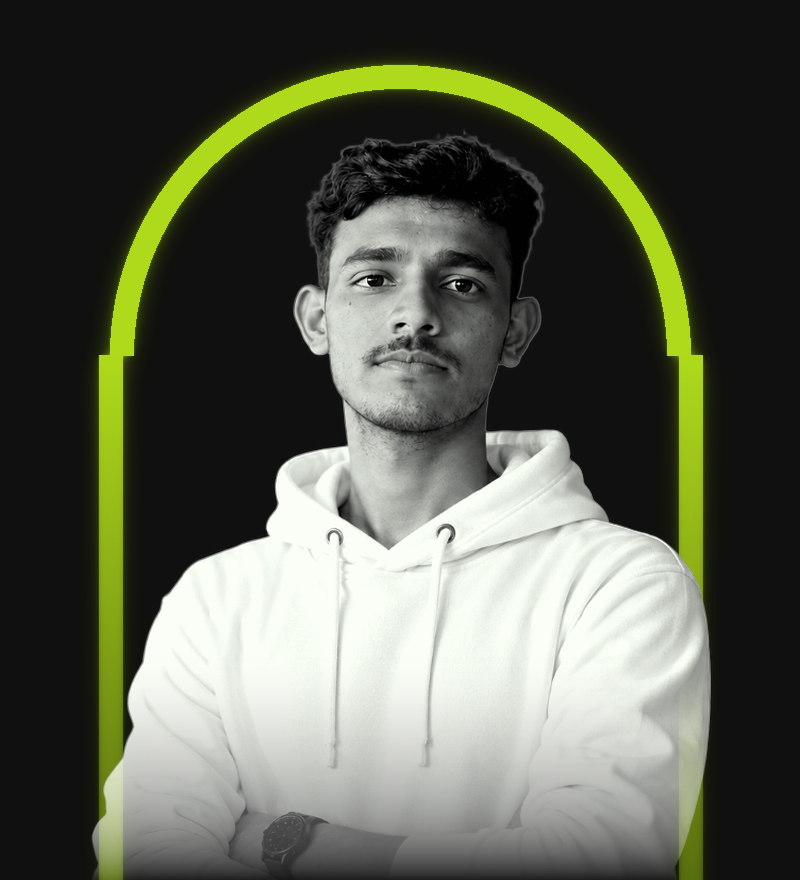
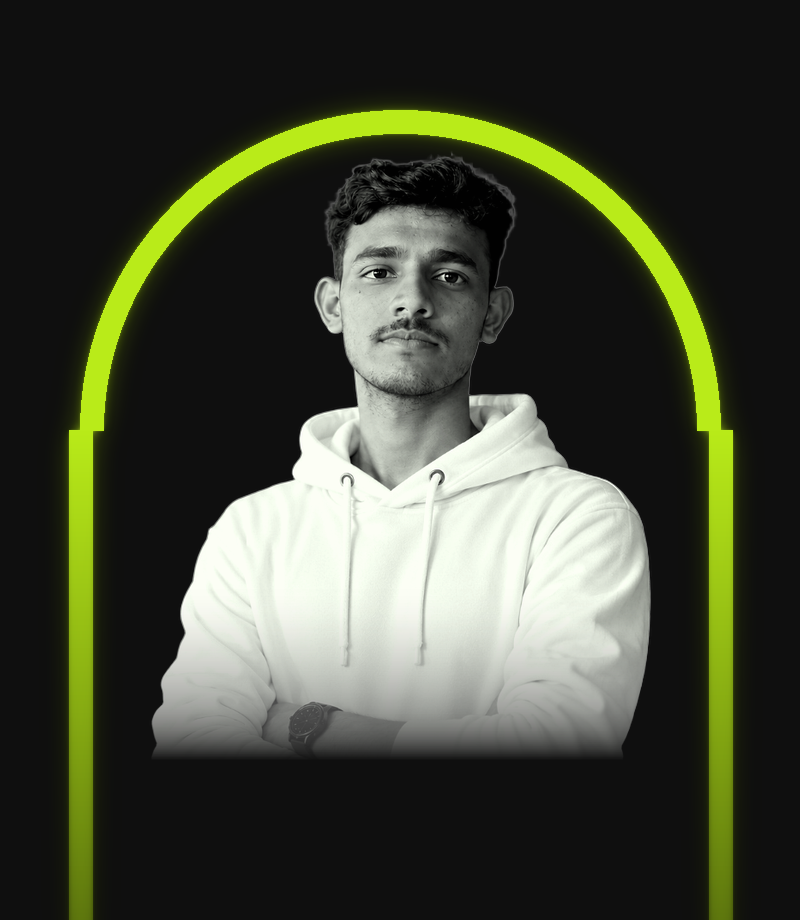
fix: adjust yellow arch line to fit around subject with clear margins

diff --git a/src/components/sections/Hero.jsx b/src/components/sections/Hero.jsx
@@ -150,11 +150,11 @@ export default function Hero() {
               <div className="absolute -bottom-10 -left-10 w-48 h-48 bg-[#c9f31d]/10 blur-[70px] rounded-full pointer-events-none" />
 
               {/* Exact Reference Arch Portrait */}
-              <div className="relative w-full aspect-[800/880] rounded-2xl bg-[#101010] border border-white/[0.08] flex items-center justify-center overflow-hidden shadow-inner">
+              <div className="relative w-full aspect-[800/920] rounded-2xl bg-[#0f0f0f] border border-white/[0.08] flex items-center justify-center overflow-hidden shadow-inner">
                 <img
                   src="/abhishek_reference.png"
                   alt="Abhishek Tiwari"
-                  className="w-full h-full object-cover object-center transition-transform duration-500 group-hover:scale-[1.03]"
+                  className="w-full h-full object-cover object-center transition-transform duration-500 group-hover:scale-[1.02]"
                 />
 
                 {/* Floating pill badge top left */}

diff --git a/progress.md b/progress.md
@@ -132,6 +132,11 @@ This document records the full development trajectory across all 10 iterations r
   - Sampled exact color and geometry from the reference image (`#c9f31d` / `#aed11c`, 24px stroke neon arch with downward fade and glow bloom).
   - Converted Abhishek's original photo into a high-contrast studio monochrome portrait with crisp facial features, deep dark hair, and subtle ambient lighting tone on the hoodie.
   - Symmetrically framed Abhishek with the glowing neon arch behind his head and shoulders.
+  - Adjusted the yellow arch line fit:
+    - Expanded arch diameter to 640px (R=320px) spanning x=80..720.
+    - Symmetrically scaled and positioned Abhishek (width 540px, top y=148px) with a snug 38px halo clearance above hair (arch apex at y=110px).
+    - Established balanced 50px clearance margins along both shoulders and arms, ensuring the neon yellow line is 100% visible and unclipped from top to bottom.
+    - Updated hero card container aspect ratio to 800/920 matching the artwork dimensions.
   - Applied soft gradient feathering on the lower hoodie for a seamless dark-theme card blend.
   - Outputted `public/abhishek_reference.png`, `src/assets/abhishek_reference.png`, and updated `src/components/sections/Hero.jsx`.
 
